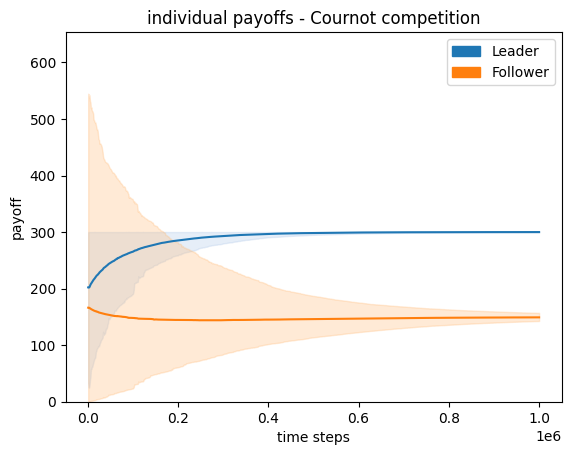
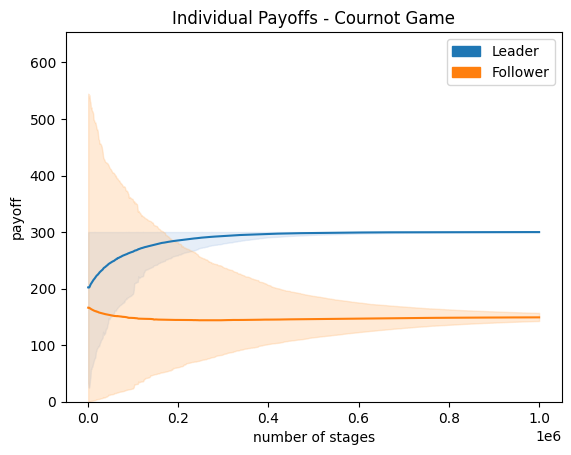
updated README.md

Changed region(s): [[0.2382, 0.0, 0.8634, 0.0615], [0.4466, 0.9538, 0.655, 0.9846]]

diff --git a/cournot_plot.py b/cournot_plot.py
@@ -38,7 +38,7 @@ if __name__ == '__main__':
     line_plot(series,
               x_axis,
               title=args.title,
-              x_label="time steps",
+              x_label="number of stages",
               y_label="payoff",
               errors="range",
               image_path=payoff_path)

diff --git a/README.md b/README.md
@@ -1,35 +1,29 @@
-# Hi-C
+# Implementation of the Hi-C algorithm and baselines (Loftin et al. 2024)
 
-**TODO: Make sure not to include this in code we might provide to reviewers, as it breaks anonymity**
+To reproduce experimental results, first run:
 
-Implementation of Hi-C algorithm and baselines (https://arxiv.org/abs/2302.03438)
+```commandline
+python3 cournot.py --num-cpus 4
+```
 
-### Old Negotiation Text
+To generate plots, run
 
-A major conceptual issue in learning Stackelberg equilibria is determining which player should be the leader and which the follower.  In centralized training these roles can be assigned in advance, but it is unclear how two independent learners can "negotiate" these roles, given that both players may prefer to be the leader or the follower.
+```commandline
+python3 cournot.py temp_results/$PATH_TO_RESULTS "Individual Payoffs - Cournot Game"
+```
+Where `$PATH_TO_RESULTS` should be replaced with the timestamped results directory generated by `cournot.py`.
 
-The basic idea is to use a higher-level, *symmetric* learning process to select roles.  We can formalize this by imagining the learners playing a repeated 2x2 game, which we will call the *negotiation meta-game*, in which each player commits to either leading or following for a sufficiently long inteval for the "inner" Stackelberg learning process to converge.  While there are multiple ways the inner process could be implemented (Hierarchical gradients, Hi-C, etc.), the assumption is that having a distinct leader and follower is always preferable.
+Please cite as:
 
-As a simplified model, imagine that for each of the four possible joint strategies in the meta-game (lead-lead, lead-follow, follow-lead, and follow-follow), the average payoffs of the inner learning process will converge to unique payoff profiles (independent of initial conditions for now).  We will denote the corresponding profiles as $ll. lf. fl,$ and $ff$, all of which are 2D vectors.  Hierarchical learning, that is, searching for Stackelberg equilibria, only makes sense when we consider that
-
-# Running Experiments
-
-NOTE: SPSA is highly unstable without a variance-reducing baseline
-
-Target 2-player environments:
-- Coordination game
-- Battle of the Sexes
-- Cournot duopoly
-- Iterated Prisoner's Dilemma (possibly, but much more expensive)
-
-Optimization test problems:
-- Quadratic function
-- Gaussian function
-
-
-# TODOs:
-
-1. Determine whether we still need the pyproject.toml file
-2. Make sure dependencies are up-to-date
-3. Delete bad config yamls
-4. Add running instructions
+```
+@inproceedings{loftin2024uncoupled,
+  title={Uncoupled Learning of Differential Stackelberg Equilibria with Commitments},
+  author={Loftin, Robert and {\c{C}}elikok, Mustafa Mert and van Hoof, Herke and Kaski, Samuel and Oliehoek, Frans A},
+  booktitle={Proceedings of the 23rd International Conference on Autonomous Agents and Multiagent Systems},
+  series={AAMAS 2024},
+  location={Auckland, New Zealand},
+  year={2024},
+  organization={IFAAMAS},
+  numpages={9}
+}
+```
